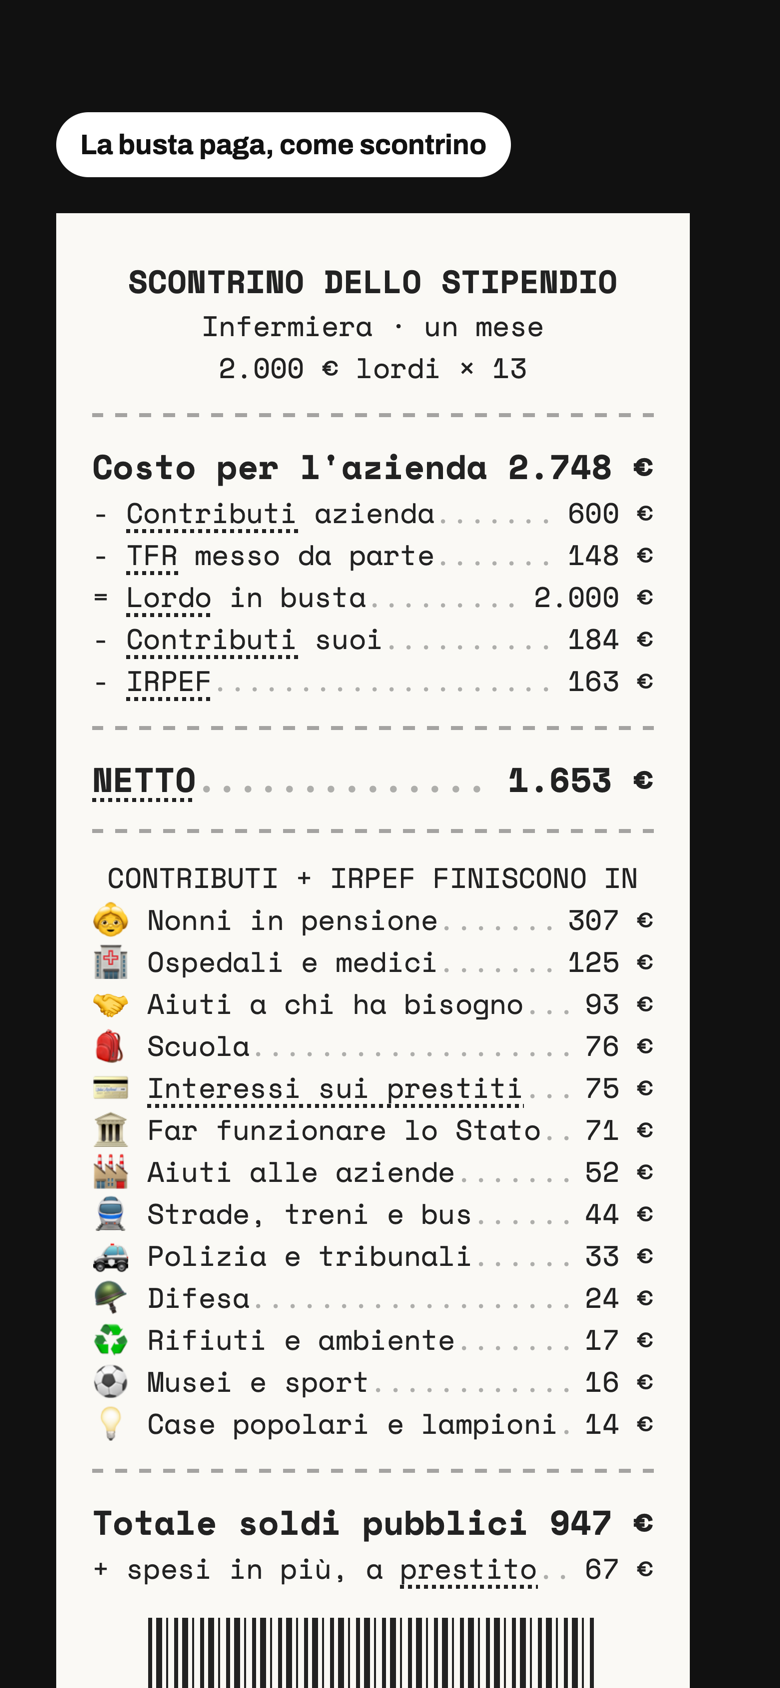
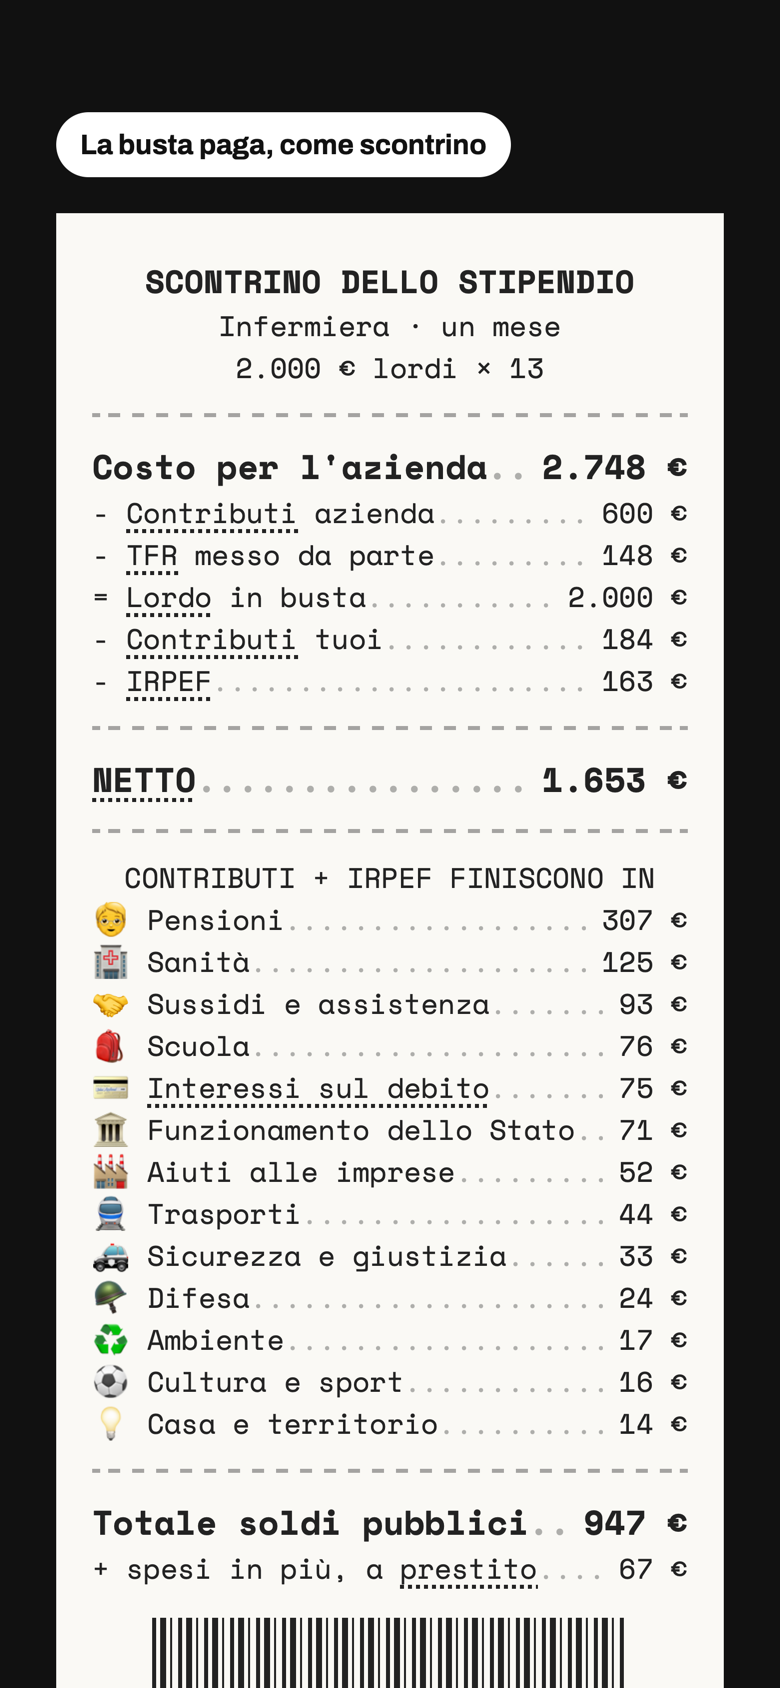
Wrapped: testi al tu, più diretti, e foto aggiornate

diff --git a/assets/projects.js b/assets/projects.js
@@ -42,13 +42,13 @@ window.PROJECTS = [
     slug: 'wrapped-stipendio',
     category: 'civic',
     name: 'Il Wrapped del tuo stipendio',
-    short: 'Lo stipendio raccontato a storie, come lo Spotify Wrapped: dove finisce ogni euro e cosa si paga con le tasse.',
-    tagline: 'Le tasse spiegate a un ragazzo di 13 anni, una storia alla volta.',
+    short: 'Il tuo stipendio raccontato a storie, come lo Spotify Wrapped: dove finisce ogni euro e cosa paghi con le tasse.',
+    tagline: 'Le tasse spiegate in modo diretto, una storia alla volta.',
     cover: 'img/wrapped-stipendio.png',
     gallery: ['img/wrapped-stipendio-m1.png', 'img/wrapped-stipendio-m2.png', 'img/wrapped-stipendio-m3.png'],
     links: { live: 'https://marvinbonazzo.github.io/scontrino-stipendio/wrapped/', code: 'https://github.com/MarvinBonazzo/scontrino-stipendio' },
     facts: { Anno: '2026', Tipo: 'Storie web per ragazzi', Stack: 'Un solo file HTML', Regole: 'IRPEF e INPS 2026' },
-    problem: 'A scuola nessuno spiega cosa succede ai soldi di uno stipendio. Le parole sono difficili (lordo, IRPEF, detrazioni) e i numeri sembrano lontani, così le tasse restano una cosa noiosa da adulti. Volevo renderle pop: brevi, colorate, da sfogliare con il dito come le storie di Instagram.',
+    problem: 'A scuola nessuno spiega cosa succede ai soldi di uno stipendio. Le parole sono difficili (lordo, IRPEF, detrazioni) e i numeri sembrano lontani, così le tasse restano una cosa noiosa da adulti. Volevo renderle pop senza addolcirle: brevi, colorate, da sfogliare con il dito come le storie di Instagram, dando del tu a chi legge.',
     audience: [
       'Ragazzi delle medie e delle superiori che non hanno mai visto una busta paga.',
       'Insegnanti che cercano uno spunto per educazione civica ed economia.',
@@ -61,14 +61,14 @@ window.PROJECTS = [
       ['Dire cosa non torna', 'I contributi che non bastano per le pensioni, il deficit, le tasse che non si vedono in busta paga.']
     ],
     how: [
-      ['Scegli una persona', 'Barista, infermiera, programmatrice, oppure scrivi il tuo lordo.'],
-      ['La pizza dello stipendio', 'Quanto spende l\'azienda, quante fette arrivano sul conto e dove vanno le altre.'],
+      ['Scegli un lavoro', 'Barista, infermiera, programmatrice, oppure scrivi il tuo lordo.'],
+      ['Dal costo al netto', 'Quanto spende l\'azienda per te, quanto arriva sul tuo conto e dove va il resto.'],
       ['Cosa pagano i tuoi soldi', 'Contributi e IRPEF divisi tra pensioni, ospedali, scuola e le altre voci della spesa pubblica, più la parte presa in prestito.'],
       ['Lo scontrino finale', 'La busta paga stampata come uno scontrino, con il link al Wrapped dello Stato.']
     ],
     tech: 'Un solo index.html, senza dipendenze. Il calcolo è copiato identico dallo Scontrino delle tasse: contributi, scaglioni IRPEF 2026, detrazioni, taglio del cuneo. Navigazione a tocchi come le storie, numeri animati e un glossario a cartoncino che funziona anche da tastiera. Nessun dato salvato, nessun tracciamento.',
     story: 'È nato dallo Scontrino delle tasse, una pagina pensata per adulti. Con Claude l\'ho trasformato in storie per ragazzi e poi l\'ho reso complementare al Wrapped dello Stato: stessi dati, stesse 13 voci di spesa, e ognuno finisce con il link all\'altro. Uno mostra cosa paghi tu, l\'altro quanti soldi arrivano allo Stato e dove vanno.',
-    next: 'Testi in seconda persona quando scrivi il tuo stipendio e un pulsante per condividere lo scontrino finale come immagine.'
+    next: 'Un pulsante per condividere lo scontrino finale come immagine.'
   },
   {
     slug: 'wrapped-stato',
@@ -94,7 +94,7 @@ window.PROJECTS = [
     ],
     how: [
       ['Quanto spende per te', '51,56 € al giorno, 18.820 € l\'anno per ogni persona che vive in Italia.'],
-      ['Le voci più grandi', 'Pensioni, ospedali, aiuti, scuola e interessi, con confronti che fanno pensare.'],
+      ['Le voci più grandi', 'Pensioni, sanità, sussidi, scuola e interessi sul debito, con confronti che fanno pensare.'],
       ['Da dove arrivano', 'Contributi, IRPEF, IVA e accise: anche chi non lavora ancora paga qualcosa a ogni acquisto.'],
       ['I conti non tornano', '3,40 € al giorno presi in prestito, un debito di 50.343 € a testa, poi lo scontrino di un giorno.']
     ],
